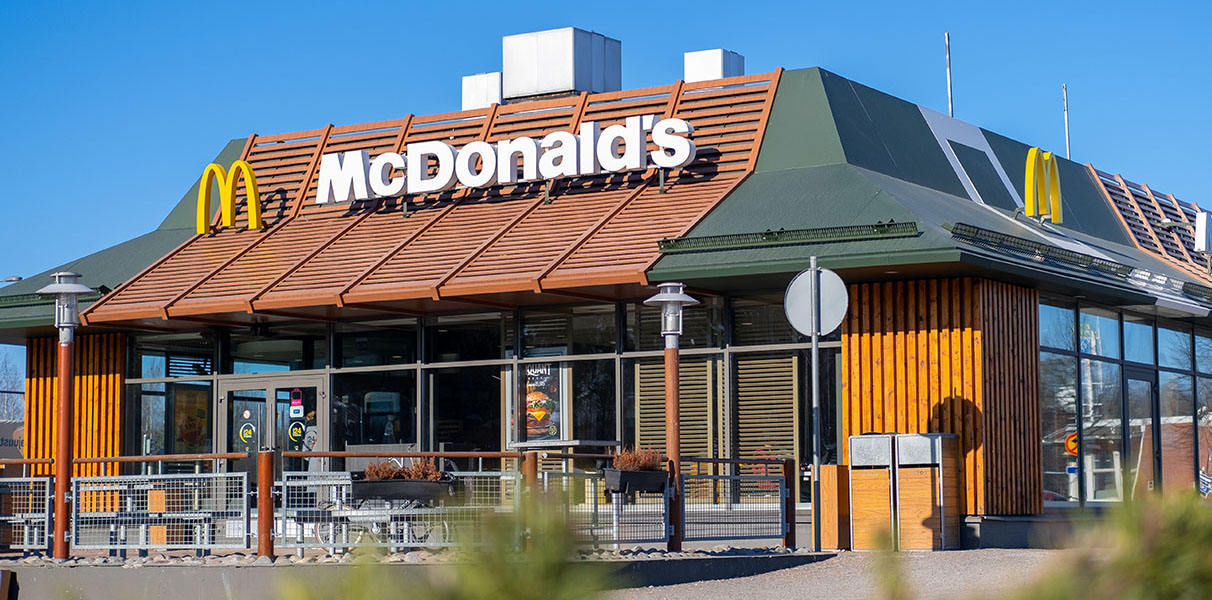
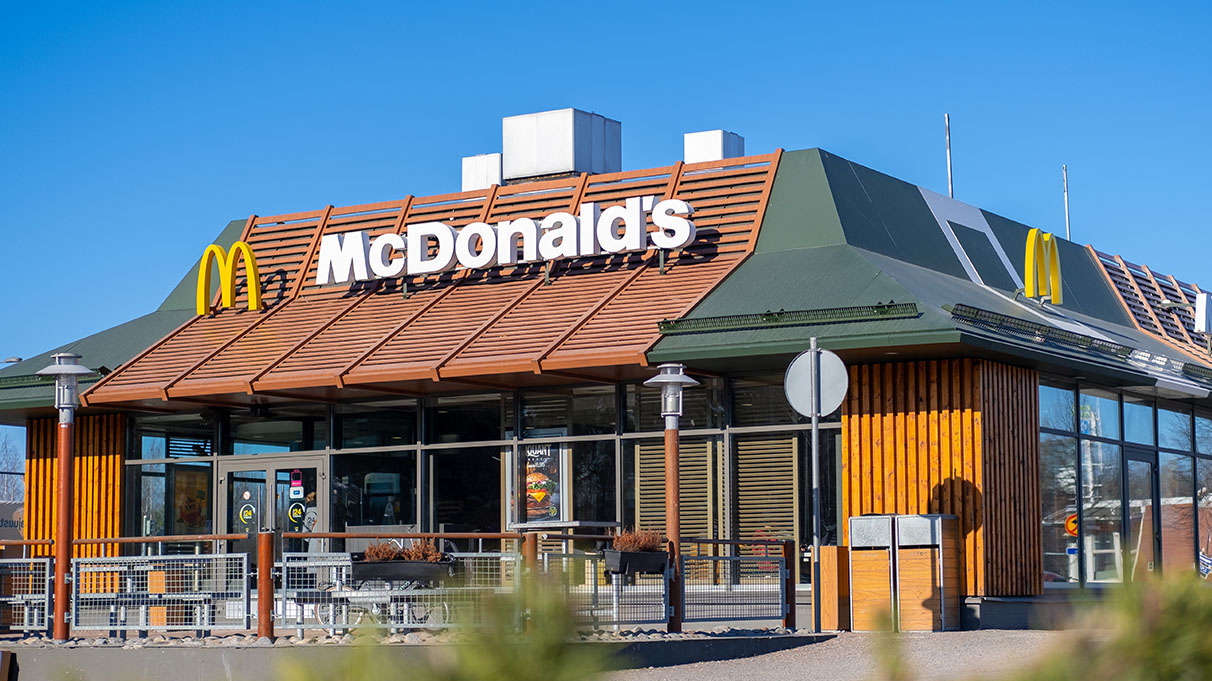
22.17

diff --git a/Wang.html b/Wang.html
@@ -204,9 +204,9 @@
   </div>
   </div>
   <div class="wide4">
-    <div class="col-12">
-      <br>
-      <img src="img/Wang/MacDonald target.jpg" class="img-fluid" >
+    <div class="col-12  text-center">
+      <br><br>
+      <img src="img/Wang/MacDonald target.jpg" class="img-fluid"  style="width:800px;height:auto;">
   </div>
   <!--分割线-->
 <hr class="my-4">

diff --git a/style.css b/style.css
@@ -104,7 +104,7 @@ figure{
 /*--固定背景图--*/
 #fixed{
   background-image: url('img/flower.jpg');
-  height: 600px;
+  height: 800px;
   background-repeat: no-repeat;
   background-attachment: fixed;
   background-position: center;
